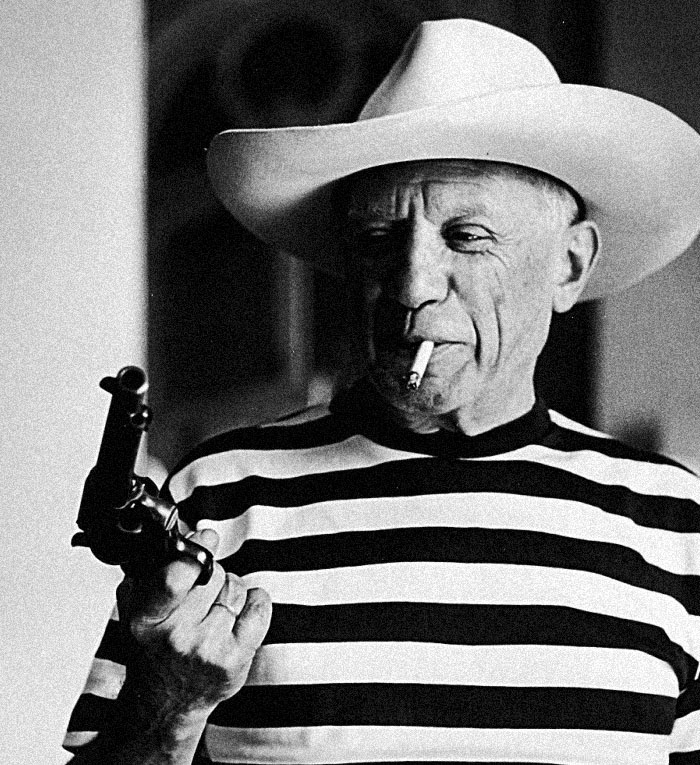
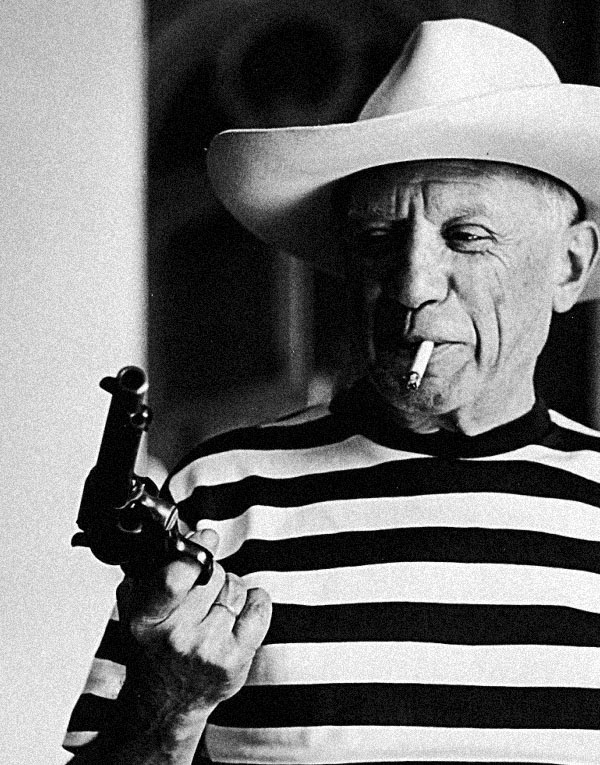
added in controls and changed background colors and images

diff --git a/styles/css.css b/styles/css.css
@@ -125,7 +125,7 @@ nav span{
 }
 #controls{
   position: absolute;
-  bottom: 50%;
+  bottom: 48%;
 }
 
 #controls a{
@@ -238,21 +238,21 @@ nav span{
   -o-transform: scaleX(1) scaleY(1);
   transform: scaleX(1) scaleY(1);
 
-  transition:transform 45s;
+  transition:transform 90s;
 }
 
 .left-image.mode2{
-  background: url(../img/david.jpg) left center no-repeat;
+  background: url(../img/david.jpg) -200px no-repeat;
   background-size: cover;
 }
 
 .left-image.mode3{
-  background: url(../img/picaso2.jpg) right no-repeat;
+  background: url(../img/picaso2.jpg) center no-repeat;
   background-size: cover;
 }
 
 .left-image.mode4{
-  background: url(../img/moose2.jpg) right no-repeat;
+  background: url(../img/moose2.jpg) center no-repeat;
   background-size: cover;
 }
 
